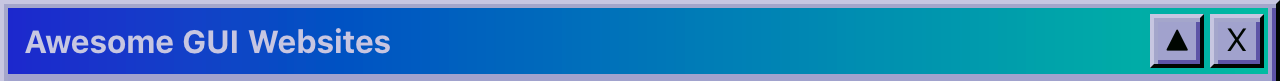
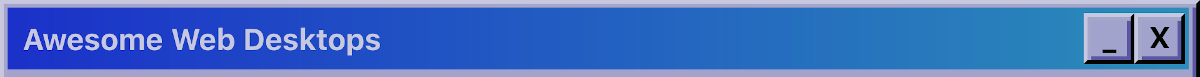
renamed project title

diff --git a/README.md b/README.md
@@ -1,6 +1,6 @@
 ![bg](header.png)
 
-# Awesome Desktop GUI Websites [![Awesome](https://cdn.rawgit.com/sindresorhus/awesome/d7305f38d29fed78fa85652e3a63e154dd8e8829/media/badge.svg)](https://github.com/sindresorhus/awesome)
+# Awesome Web Desktops [![Awesome](https://cdn.rawgit.com/sindresorhus/awesome/d7305f38d29fed78fa85652e3a63e154dd8e8829/media/badge.svg)](https://github.com/sindresorhus/awesome)
 
 If you are a fan of websites, web apps and portfolios which resemble desktop graphical user interfaces here is an **awesome curated list**!
 
